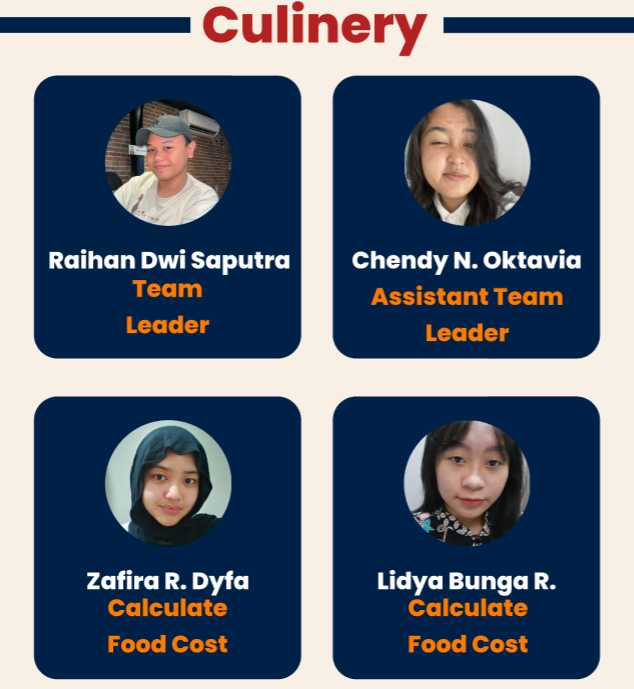
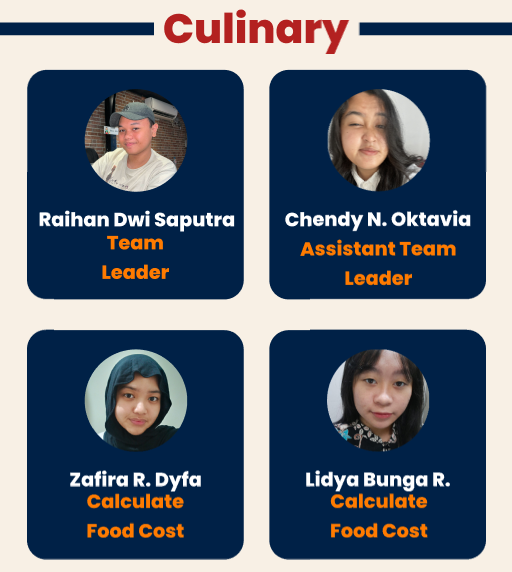
Fix image paths and update assets for consistency

diff --git a/lib/tourism.dart b/lib/tourism.dart
@@ -66,6 +66,7 @@ class _TourismPageState extends State<TourismPage> {
 
               // --- LOGIKA DROUPDOWN ITINERARY ---
               GestureDetector(
+                behavior: HitTestBehavior.opaque,
                 onTap: () {
                   setState(() {
                     isExpanded = !isExpanded;
@@ -73,8 +74,8 @@ class _TourismPageState extends State<TourismPage> {
                 },
                 child: Image.asset(
                   isExpanded
-                      ? 'assets/images/itenerary-trip-2.png'
-                      : 'assets/images/itenerary-trip-1.png',
+                      ? 'assets/images/itinerary-trip-2.png'
+                      : 'assets/images/itinerary-trip-1.png',
                   width: double.infinity,
                   fit: BoxFit.fitWidth,
                 ),
@@ -84,13 +85,13 @@ class _TourismPageState extends State<TourismPage> {
               if (isExpanded) ...[
                 const SizedBox(height: 25),
                 Image.asset(
-                  'assets/images/itenerary-trip-3.png',
+                  'assets/images/itinerary-trip-3.png',
                   width: double.infinity,
                   fit: BoxFit.fitWidth,
                 ),
-                const SizedBox(height: 5),
+                
                 Image.asset(
-                  'assets/images/itenerary-trip-4.png',
+                  'assets/images/itinerary-trip-4.png',
                   width: double.infinity,
                   fit: BoxFit.fitWidth,
                 ),

diff --git a/lib/widgets/custom_layout.dart b/lib/widgets/custom_layout.dart
@@ -5,7 +5,7 @@ import '../culture_page.dart';
 import '../geography.dart';
 import '../inspiring_figures.dart';
 import '../tourism.dart';
-import '../culinery.dart';
+import '../culinary.dart';
 import '../demography.dart';
 import '../about_us.dart';
 
@@ -72,7 +72,7 @@ class CustomLayout extends StatelessWidget {
                       width: 150,
                       height: 150,
                       child: Image.asset(
-                        'assets/images/logo-teks-putih.png',
+                        'assets/images/logo-white-text.png',
                         fit: BoxFit.contain,
                       ),
                     ),
@@ -126,7 +126,7 @@ class CustomLayout extends StatelessWidget {
                       _buildDrawerItem(
                         context: context,
                         icon: Icons.restaurant,
-                        title: 'Culinery',
+                        title: 'Culinary',
                         activeColor: activeColor,
                         isActive: activeIndex == 4,
                         onTap: () => _navigateTo(context, const CulineryPage()),
@@ -186,7 +186,7 @@ class CustomLayout extends StatelessWidget {
                 mainAxisAlignment: MainAxisAlignment.spaceBetween,
                 children: [
                   Image.asset(
-                    'assets/images/logo-tanpa-teks.png',
+                    'assets/images/logo-no-text.png',
                     height: 70,
                     fit: BoxFit.contain,
                   ),

diff --git a/lib/about_us.dart b/lib/about_us.dart
@@ -49,7 +49,7 @@ class AboutUsPage extends StatelessWidget {
               const SizedBox(height: 25),
 
               Image.asset(
-                'assets/images/culinery-student-1.png',
+                'assets/images/culinary-student-1.png',
                 width: double.infinity,
                 fit: BoxFit.fitWidth,
               ),
@@ -57,7 +57,7 @@ class AboutUsPage extends StatelessWidget {
               const SizedBox(height: 25),
 
               Image.asset(
-                'assets/images/culinery-student-2.png',
+                'assets/images/culinary-student-2.png',
                 width: double.infinity,
                 fit: BoxFit.fitWidth,
               ),

diff --git a/lib/main.dart b/lib/main.dart
@@ -135,12 +135,12 @@ class _HomePageState extends State<HomePage> {
             ),
             const SizedBox(height: 25),
             Image.asset(
-              'assets/images/geo-culiner-1.png',
+              'assets/images/geo-culinary-1.png',
               width: double.infinity,
               fit: BoxFit.fitWidth,
             ),
             Image.asset(
-              'assets/images/geo-culiner-2.png',
+              'assets/images/geo-culinary-2.png',
               width: double.infinity,
               fit: BoxFit.fitWidth,
             ),

diff --git a/lib/culinary.dart b/lib/culinary.dart
@@ -17,7 +17,7 @@ class CulineryPage extends StatelessWidget {
           child: Column(
             children: [
               Image.asset(
-                'assets/images/culinery.png',
+                'assets/images/culinary.png',
                 width: double.infinity,
                 fit: BoxFit.fitWidth,
               ),

diff --git a/README.md b/README.md
@@ -1,5 +1,5 @@
 <p align="center">
-  <img src="assets/images/logo-tanpa-teks.png" alt="Hello Malaysia Logo" width="120">
+  <img src="assets/images/logo-no-text.png" alt="Hello Malaysia Logo" width="120">
 </p>
 
 <h1 align="left">Hello Malaysia</h1>
@@ -11,7 +11,7 @@ This project was initiated as a **Project-Based Learning (PjBL)** assignment at 
 ## 📱 Android APK Download
 
 Install and experience the application directly on your Android device:  
-👉 **[Download Hello Malaysia APK (MediaFire)](https://www.mediafire.com/file/gnvhf7y29w1bg85/Hello_Malaysia.apk/file)**
+👉 **[Download Hello Malaysia APK (MediaFire)](https://www.mediafire.com/file/vtiz5e5s84szp1m/Hello_Malaysia.apk/file)**
 
 ## ✨ Key Features
 
